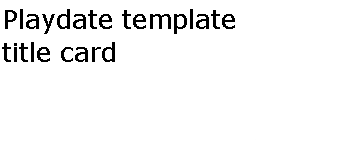
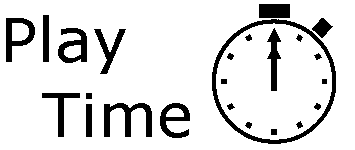
Starter scaffolding for stopwatch

diff --git a/README.md b/README.md
@@ -1,2 +1,3 @@
-# playdate-template
-Template repo for my projects built for the Panic Playdate console.
+# PlayTime
+
+A simple stopwatch and timer for the Panic Playdate.
